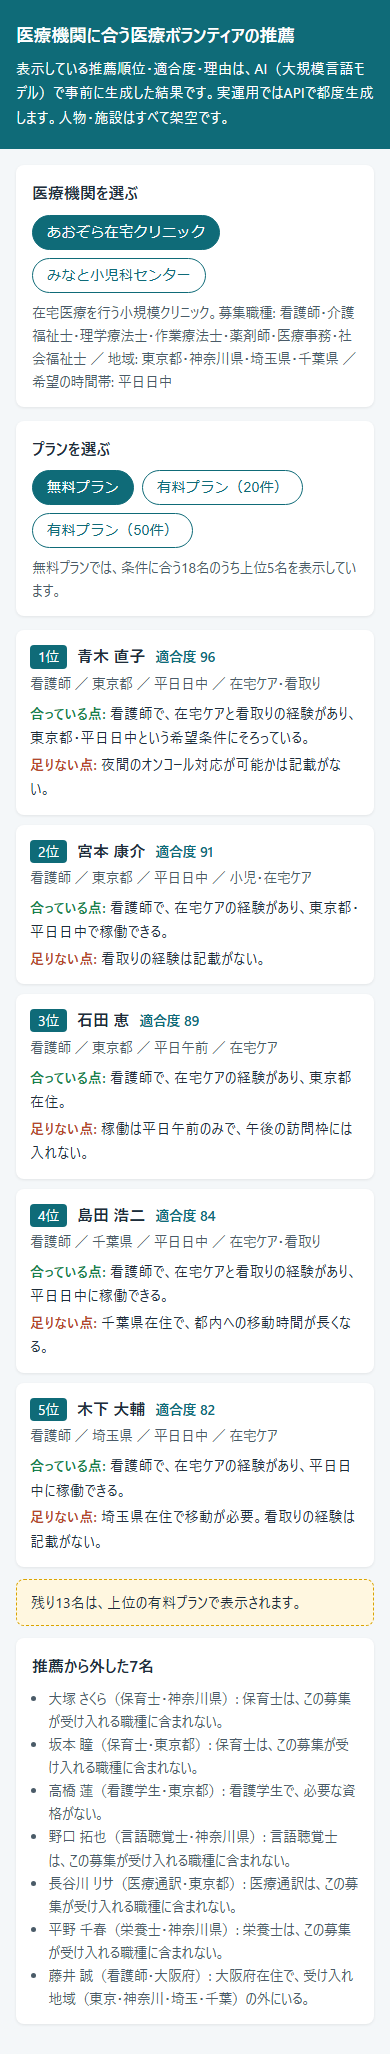
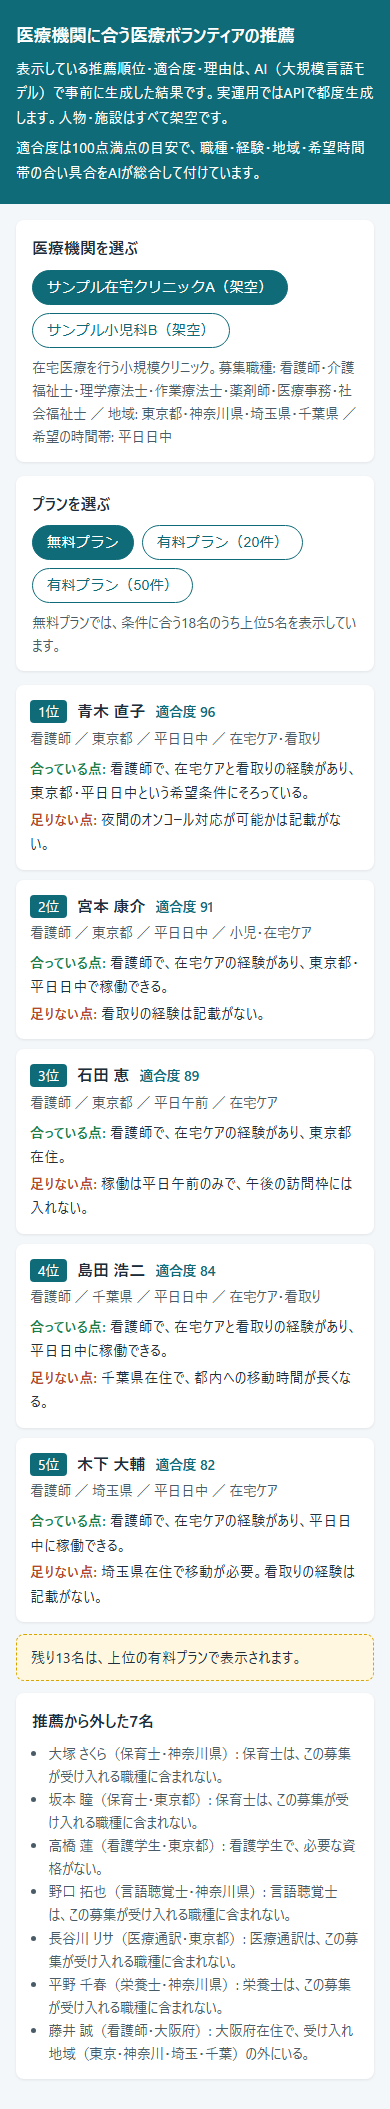
POC: fictional facility names, score note

Changed region(s): [[0.0, 0.0, 1.0, 0.9971], [0.0615, 0.8724, 0.0923, 0.9036]]

diff --git a/docs/index.html b/docs/index.html
@@ -10,6 +10,7 @@
 <header>
 <h1>医療機関に合う医療ボランティアの推薦</h1>
 <p>表示している推薦順位・適合度・理由は、AI（大規模言語モデル）で事前に生成した結果です。実運用ではAPIで都度生成します。人物・施設はすべて架空です。</p>
+<p>適合度は100点満点の目安で、職種・経験・地域・希望時間帯の合い具合をAIが総合して付けています。</p>
 </header>
 <main>
 <section class="panel"><h2>医療機関を選ぶ</h2><div class="chips" id="facility-buttons"></div><p class="note" id="facility-info"></p></section>

diff --git a/docs/data.js b/docs/data.js
@@ -264,7 +264,7 @@ window.POC_DATA = {
  "facilities": [
   {
    "id": "fa",
-   "name": "あおぞら在宅クリニック",
+   "name": "サンプル在宅クリニックA（架空）",
    "summary": "在宅医療を行う小規模クリニック",
    "needs": {
     "roles": [
@@ -291,7 +291,7 @@ window.POC_DATA = {
   },
   {
    "id": "fb",
-   "name": "みなと小児科センター",
+   "name": "サンプル小児科B（架空）",
    "summary": "週末診療に力を入れる小児科",
    "needs": {
     "roles": [
